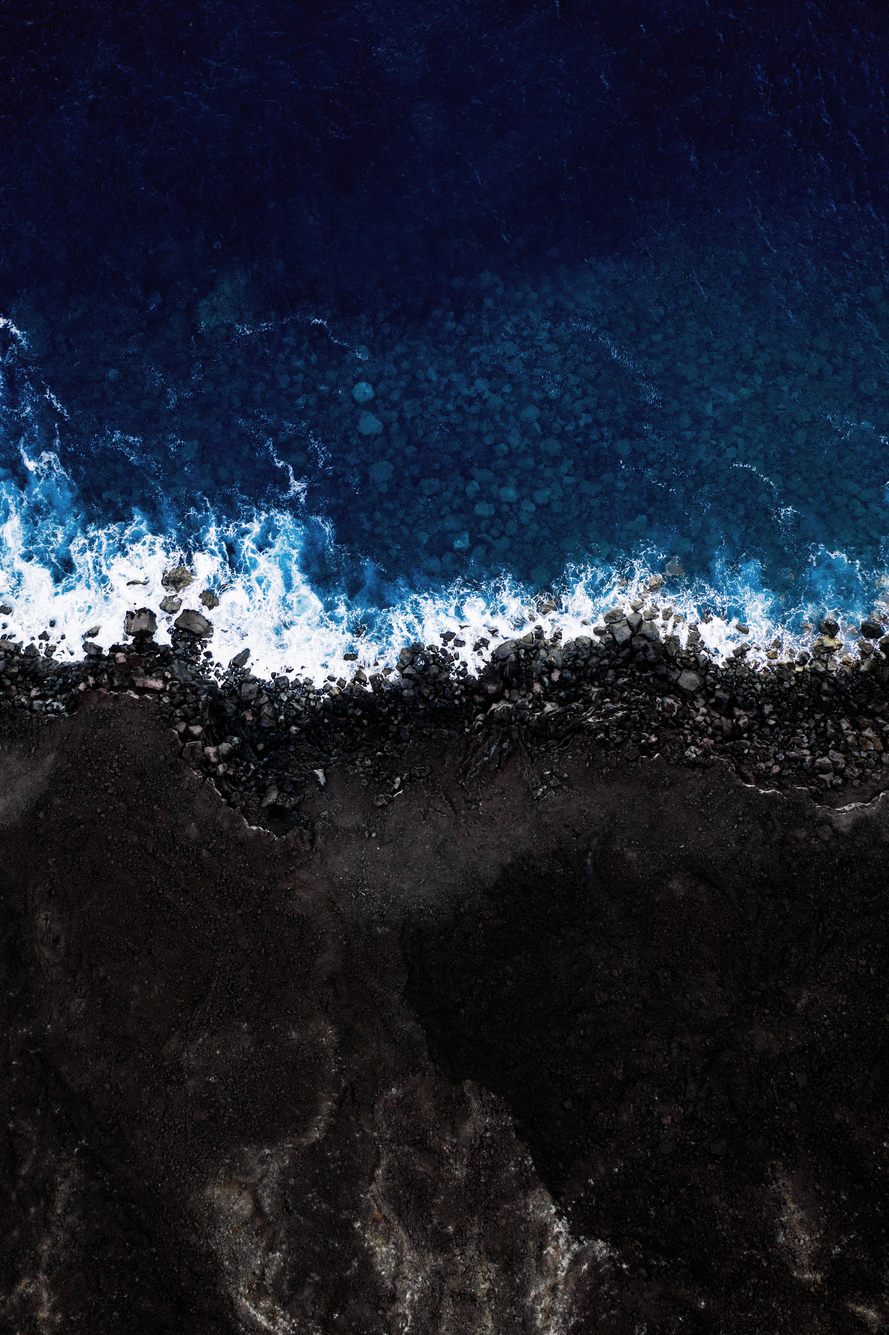
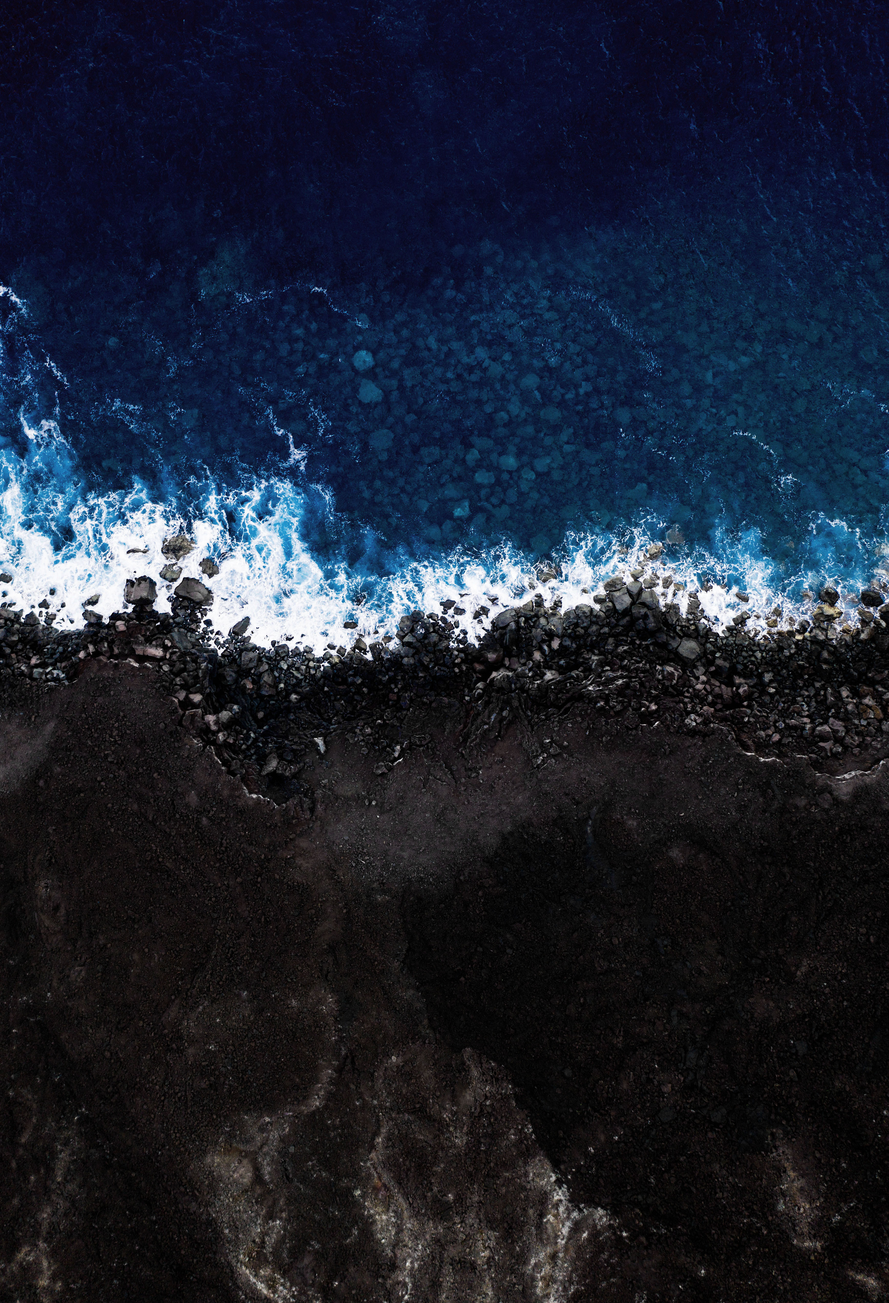
Some modifications are made for the cv section and the background image.

diff --git a/index.html b/index.html
@@ -64,7 +64,12 @@
 			<!-- Work -->
 			<article id="cv">
 				<h2 class="major">CV</h2>
-				<embed src="cv/cv.pdf" width="700" height="800" alt="pdf" pluginspage="http://www.adobe.com/products/acrobat/readstep2.html">
+				<span>
+					<embed src="cv/cv.pdf" width="100%" height="500" alt="CV">
+				</span>
+				<ul class="actions">
+					<li><a href="cv/cv.pdf" class="button primary icon solid fa-download">Download CV</a></li>
+				</ul>	
 				<!-- <p>Adipiscing magna sed dolor elit. Praesent eleifend dignissim arcu, at eleifend sapien imperdiet ac.
 					Aliquam erat volutpat. Praesent urna nisi, fringila lorem et vehicula lacinia quam. Integer
 					sollicitudin mauris nec lorem luctus ultrices.</p>
@@ -79,11 +84,7 @@
 			<article id="research">
 				<h2 class="major">Research</h2>
 				<span class="image main"><img src="images/pic03.jpg" alt="" /></span>
-				<p>Lorem ipsum dolor sit amet, consectetur et adipiscing elit. Praesent eleifend dignissim arcu, at
-					eleifend sapien imperdiet ac. Aliquam erat volutpat. Praesent urna nisi, fringila lorem et vehicula
-					lacinia quam. Integer sollicitudin mauris nec lorem luctus ultrices. Aliquam libero et malesuada
-					fames ac ante ipsum primis in faucibus. Cras viverra ligula sit amet ex mollis mattis lorem ipsum
-					dolor sit amet.</p>
+				<p><b>Under Construction! :)</b></p>
 			</article>
 
 			<!-- Contact -->
@@ -111,10 +112,11 @@
 					
 				</form>
 				<ul class="icons">
-					<li><a href="#" class="icon brands fa-twitter"><span class="label">Twitter</span></a></li>
-					<li><a href="#" class="icon brands fa-facebook-f"><span class="label">Facebook</span></a></li>
-					<li><a href="#" class="icon brands fa-instagram"><span class="label">Instagram</span></a></li>
-					<li><a href="#" class="icon brands fa-github"><span class="label">GitHub</span></a></li>
+					<li><a href="mailto:askari@ucla.edu" class="icon solid fa-envelope"><span class="label">Email</span></a></li>
+					<li><a href="https://www.linkedin.com/in/mhmd-askari/" class="icon brands fa-linkedin"><span class="label">LinkedIn</span></a></li>
+					<!-- <li><a href="#" class="icon brands fa-facebook-f"><span class="label">Facebook</span></a></li>
+					<li><a href="#" class="icon brands fa-instagram"><span class="label">Instagram</span></a></li> -->
+					<li><a href="https://github.com/mhmdaskari/" class="icon brands fa-github"><span class="label">GitHub</span></a></li>
 				</ul>
 			</article>
 
@@ -373,7 +375,9 @@ print 'It took ' + i + ' iterations to sort the deck.';</code></pre>
 		<footer id="footer">
 			<p class="copyright">&copy; 2023 MhmdAskari.GitHub.io. Design: <a href="https://html5up.net">HTML5
 					UP</a>.<br>Photo By <a href="https://unsplash.com/@alexisantoine">Alexis Antoine</a> on <a
-					href="https://unsplash.com/photos/lbIgR6AwLfw">Unsplash</a>.</p>
+					href="https://unsplash.com/photos/lbIgR6AwLfw">Unsplash</a>.<br>
+					Hosted by <a href="https://pages.github.com/">GitHub Pages</a>.
+				</p>
 		</footer>
 
 	</div>
